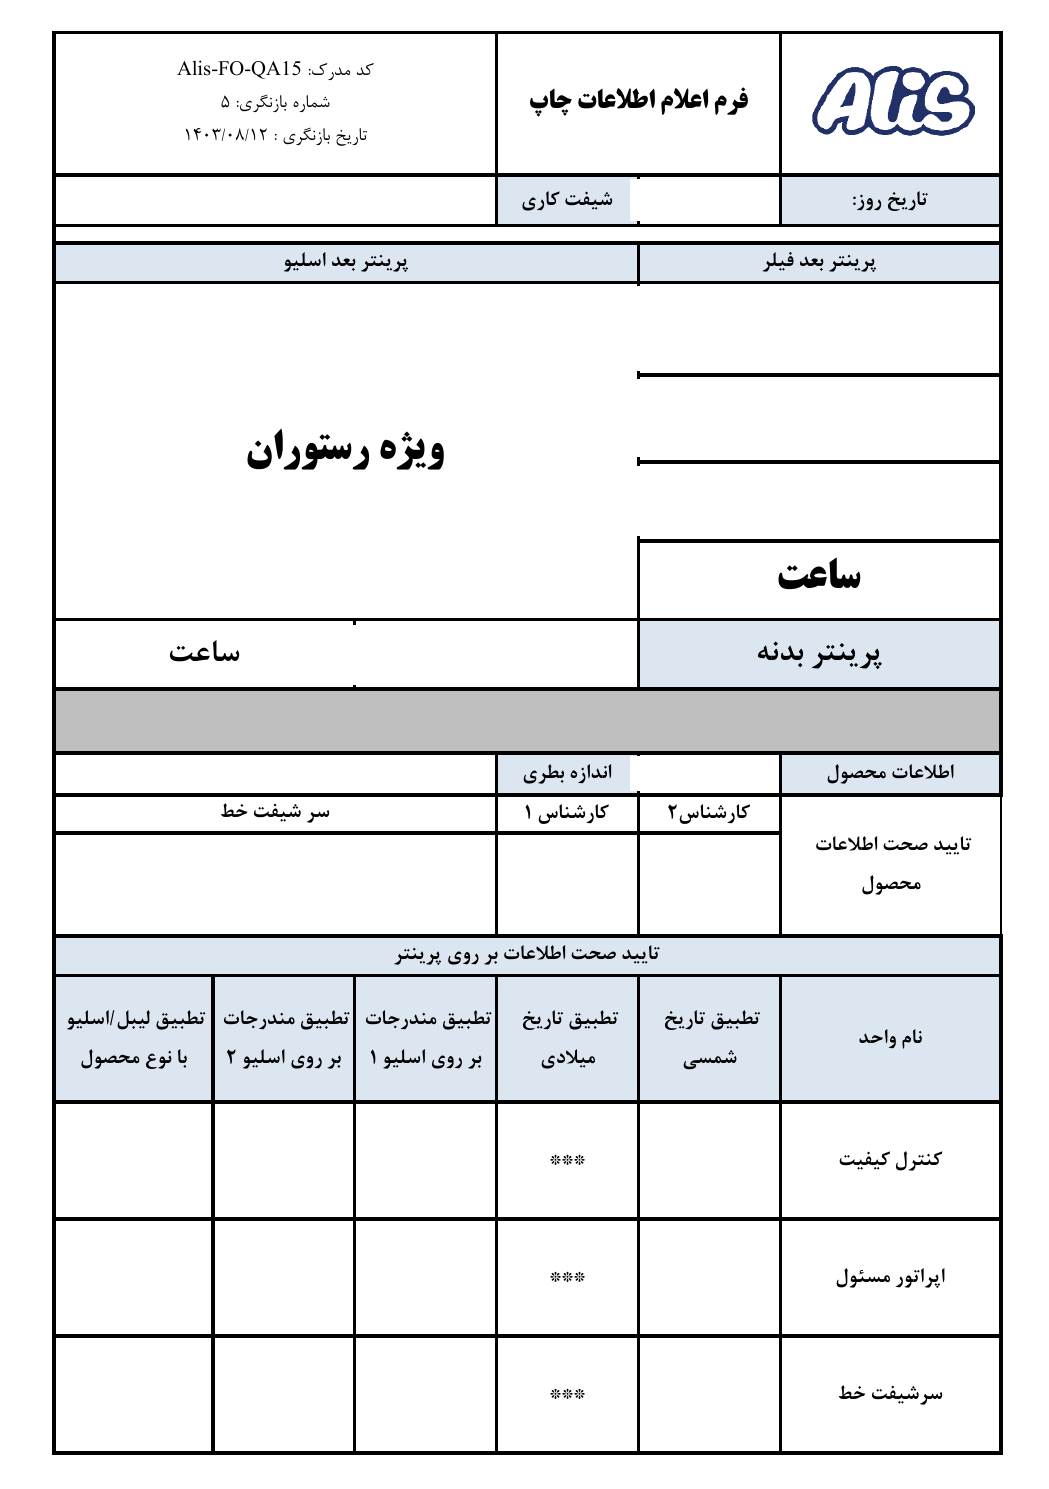
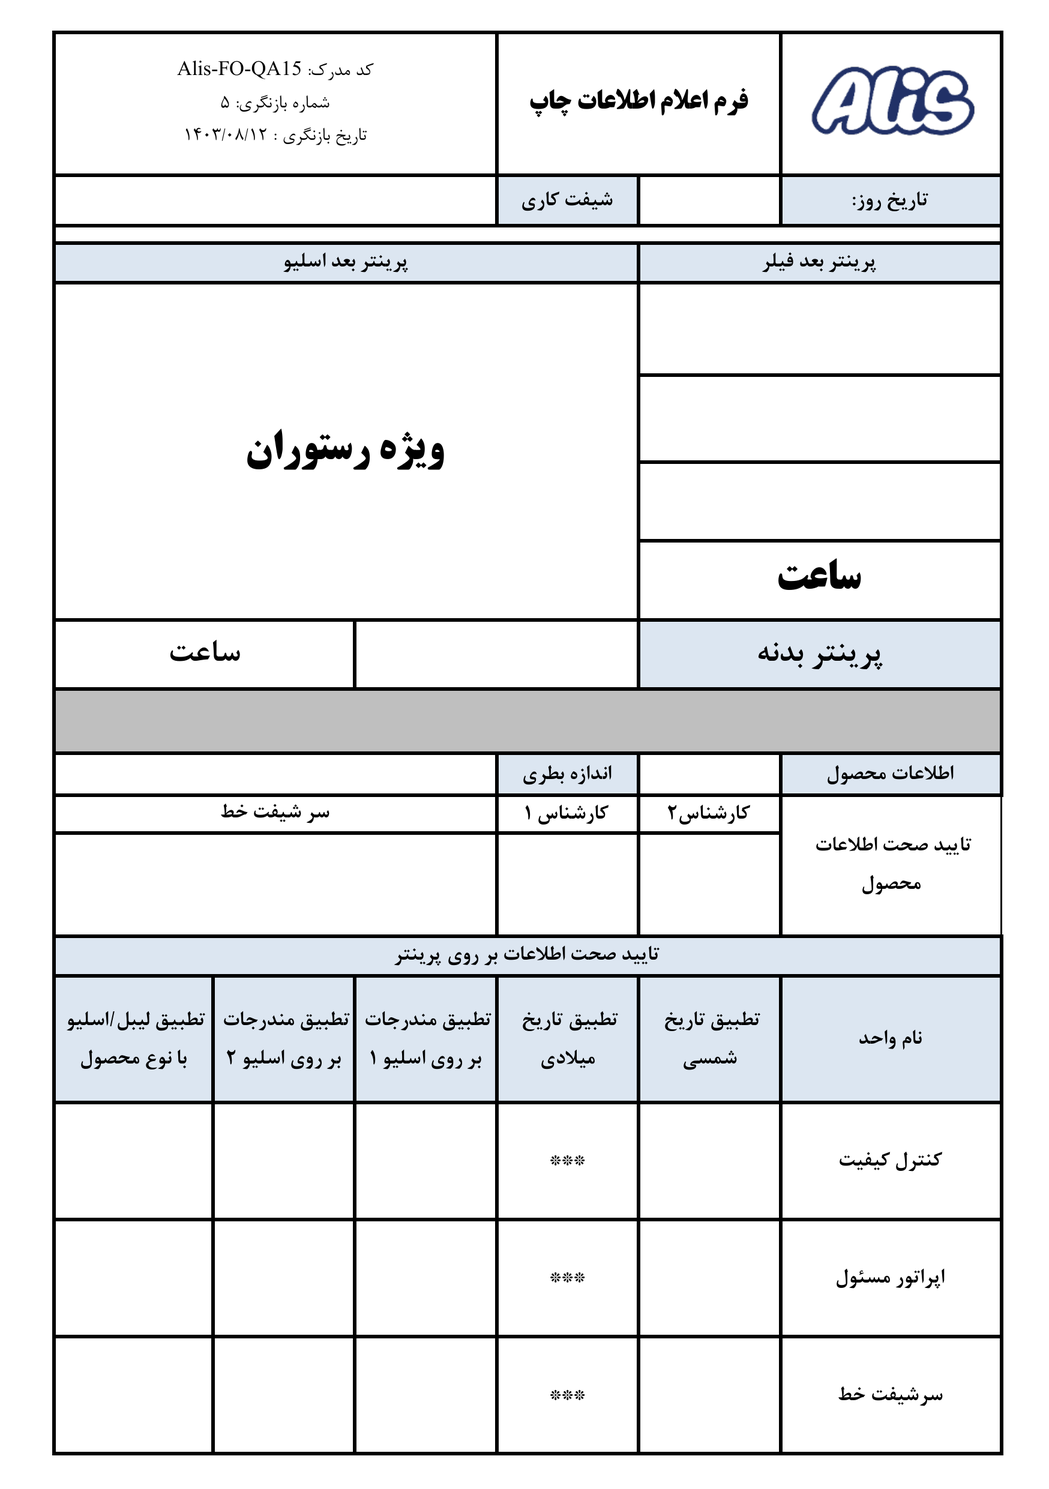
Add files via upload

diff --git a/alis-restaurant-print.html b/alis-restaurant-print.html
@@ -33,13 +33,13 @@ button:disabled{opacity:.42;cursor:not-allowed}
 .latin{direction:ltr;font-family:Arial,Helvetica,sans-serif;font-weight:800;letter-spacing:.1px;unicode-bidi:isolate}
 /* Coordinates calibrated from the actual table boundaries in the approved 1049 × 1489 px Alis form.
    Each field now matches its own printed cell exactly; no visual transform offsets are used. */
-#shift{left:4.96%;top:11.62%;width:42.33%;height:3.56%;font-size:11.5pt}
-#reportDate{left:59.39%;top:11.62%;width:14.97%;height:3.56%;font-size:9.5pt}
-#prodDate{left:60.82%;top:18.87%;width:34.51%;height:6.31%;font-size:16.5pt}
-#expDate{left:60.82%;top:25.05%;width:34.51%;height:6.04%;font-size:16.5pt}
-#batch{left:60.82%;top:30.89%;width:34.51%;height:5.51%;font-size:16pt}
-#letter{left:32.98%;top:41.50%;width:27.84%;height:4.84%;font-size:16pt;font-family:Arial,Helvetica,sans-serif}
-#size{left:4.96%;top:50.44%;width:42.33%;height:3.02%;font-size:13pt}
+#shift{left:4.96%;top:11.62%;width:42.52%;height:3.56%;font-size:11.5pt}
+#reportDate{left:60.82%;top:11.62%;width:13.54%;height:3.56%;font-size:9.5pt}
+#prodDate{left:60.82%;top:18.87%;width:34.70%;height:6.31%;font-size:16.5pt}
+#expDate{left:60.82%;top:25.05%;width:34.70%;height:6.04%;font-size:16.5pt}
+#batch{left:60.82%;top:30.89%;width:34.70%;height:5.51%;font-size:16pt}
+#letter{left:33.75%;top:41.50%;width:27.17%;height:4.84%;font-size:16pt;font-family:Arial,Helvetica,sans-serif}
+#size{left:4.96%;top:50.44%;width:42.52%;height:3.02%;font-size:13pt}
 #product{left:60.82%;top:50.44%;width:13.54%;height:3.02%;font-size:11.5pt;padding:0 .5mm}
 @media(max-width:600px){body{padding:8px 6px 20px}.editor{padding:13px}.editor h1{font-size:16px}.summary{gap:4px 10px}}
 @page{size:A5 portrait;margin:0}

diff --git a/sw.js b/sw.js
@@ -1,4 +1,4 @@
-const CACHE_NAME = 'qc-toolbox-v51';
+const CACHE_NAME = 'qc-toolbox-v55';
 const ASSETS = [
   './index.html',
   './foodlab-theme.css',
